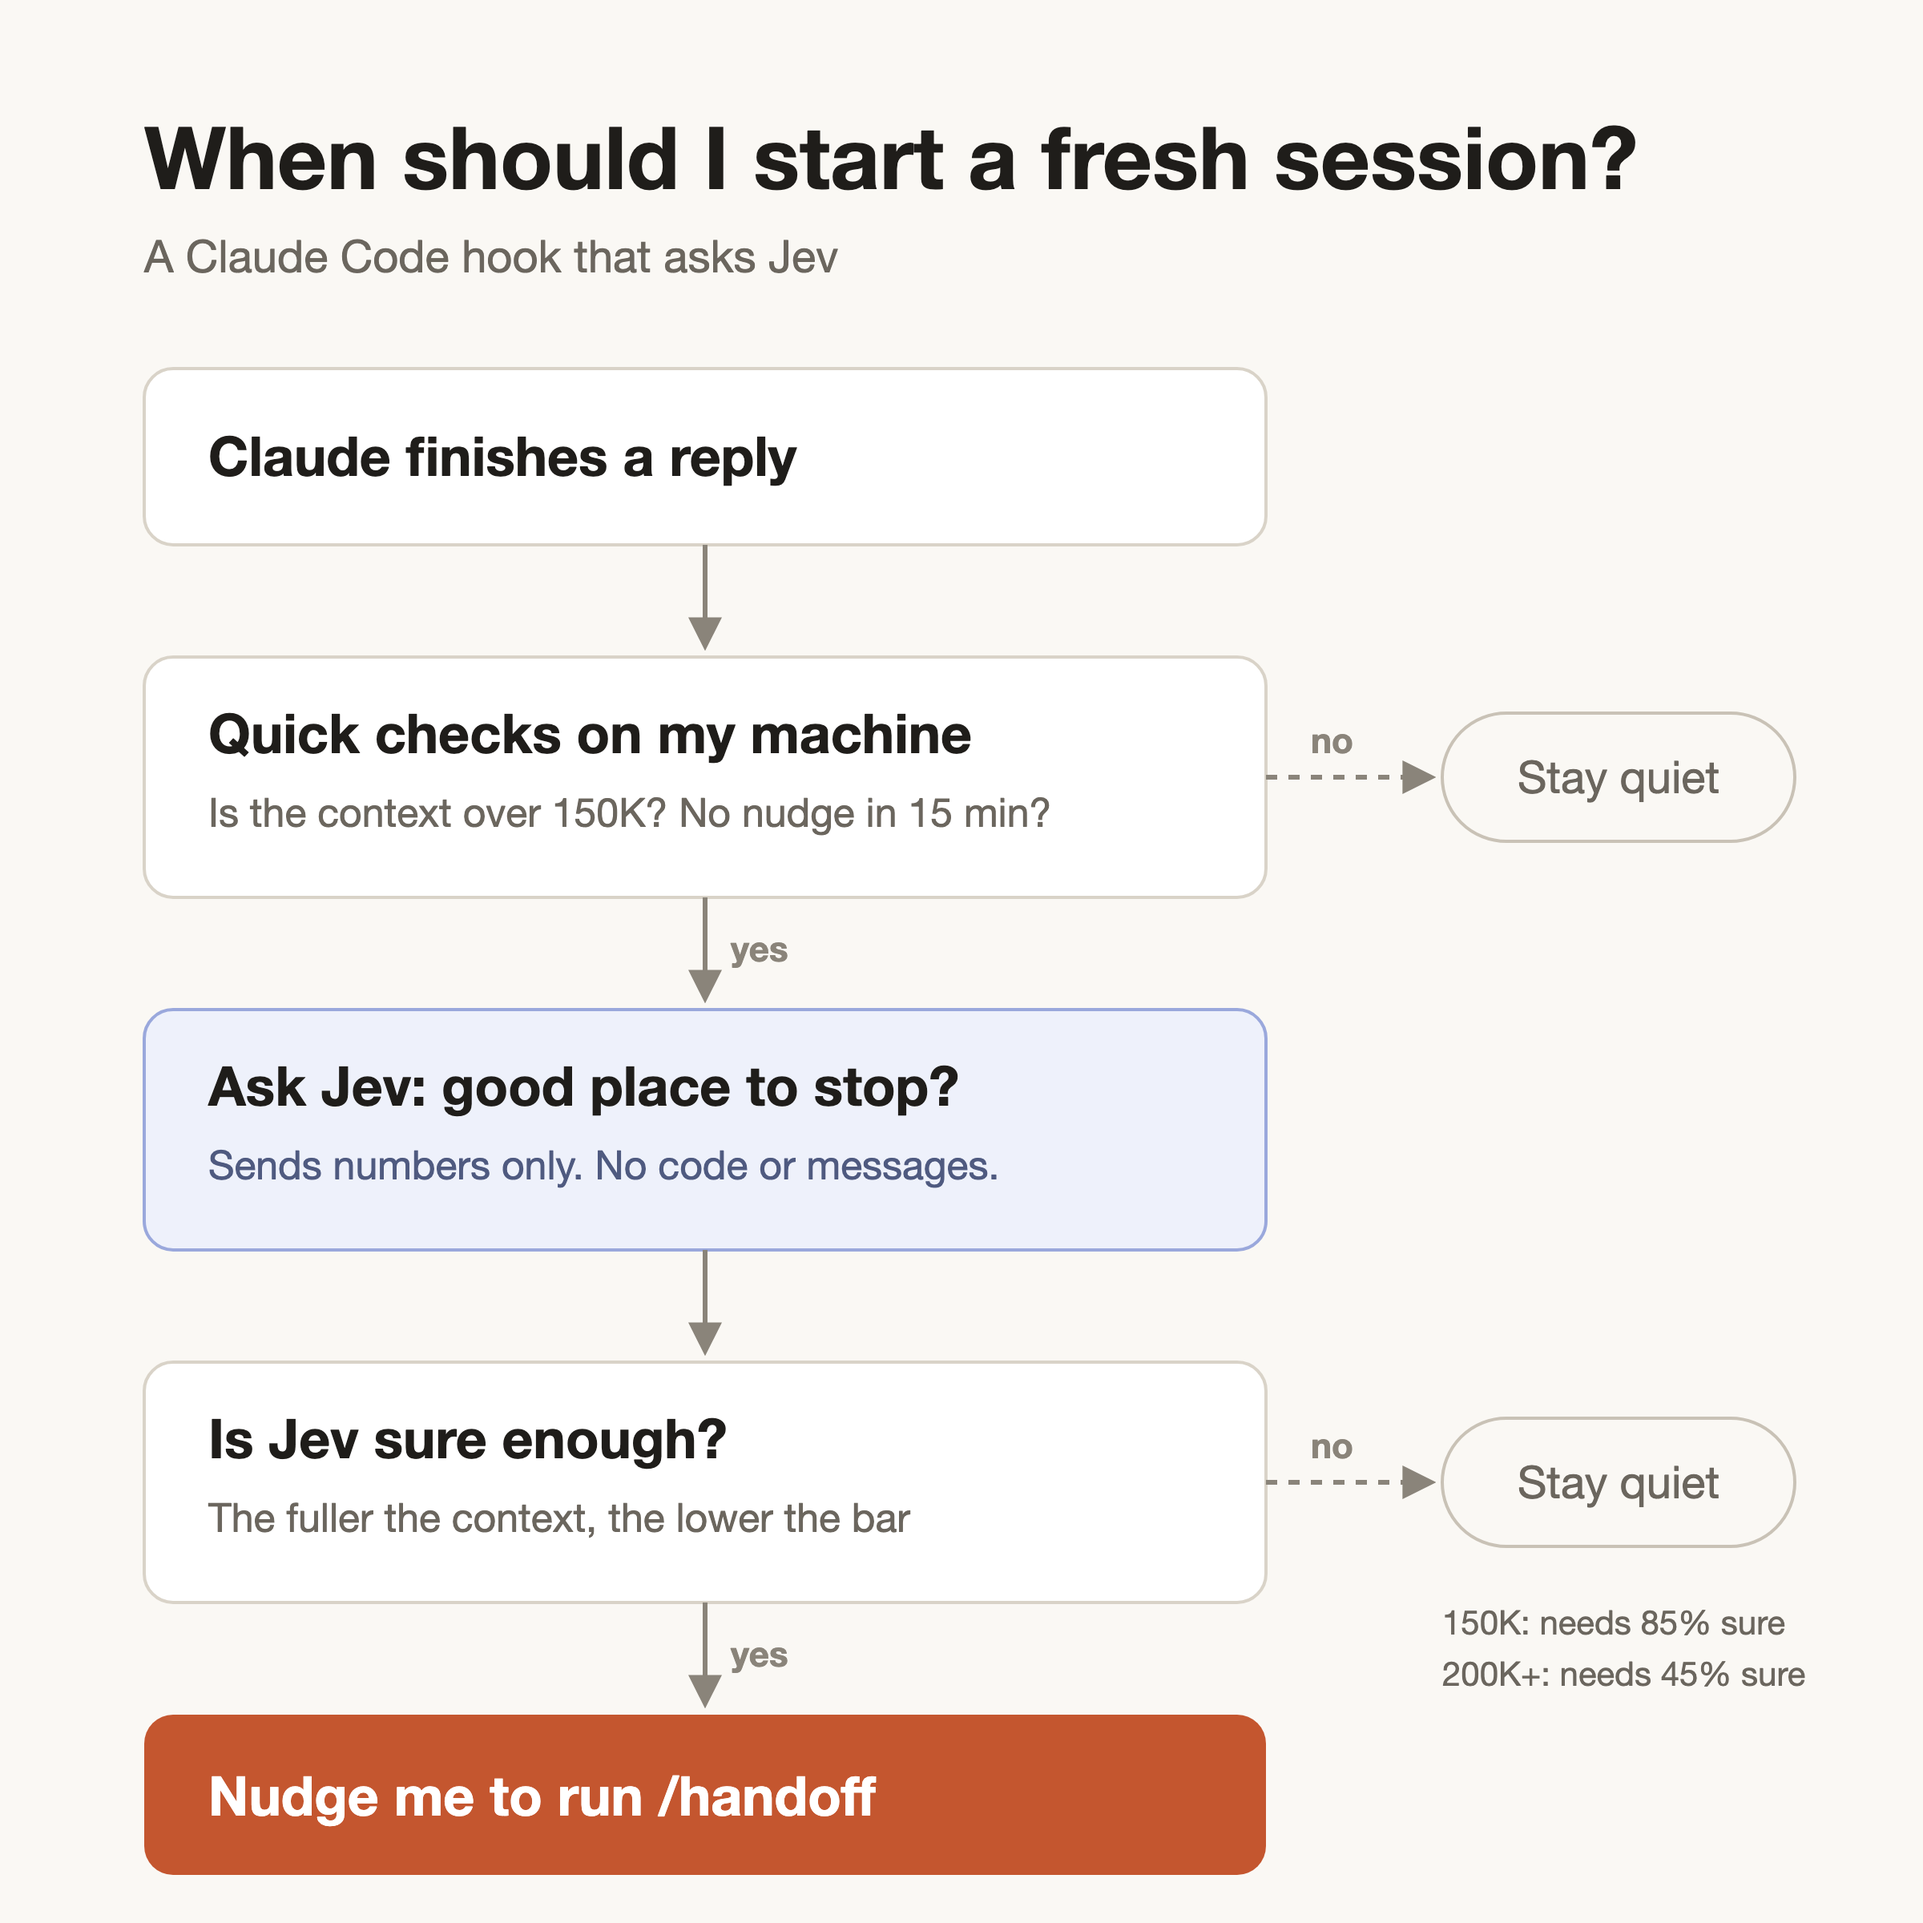
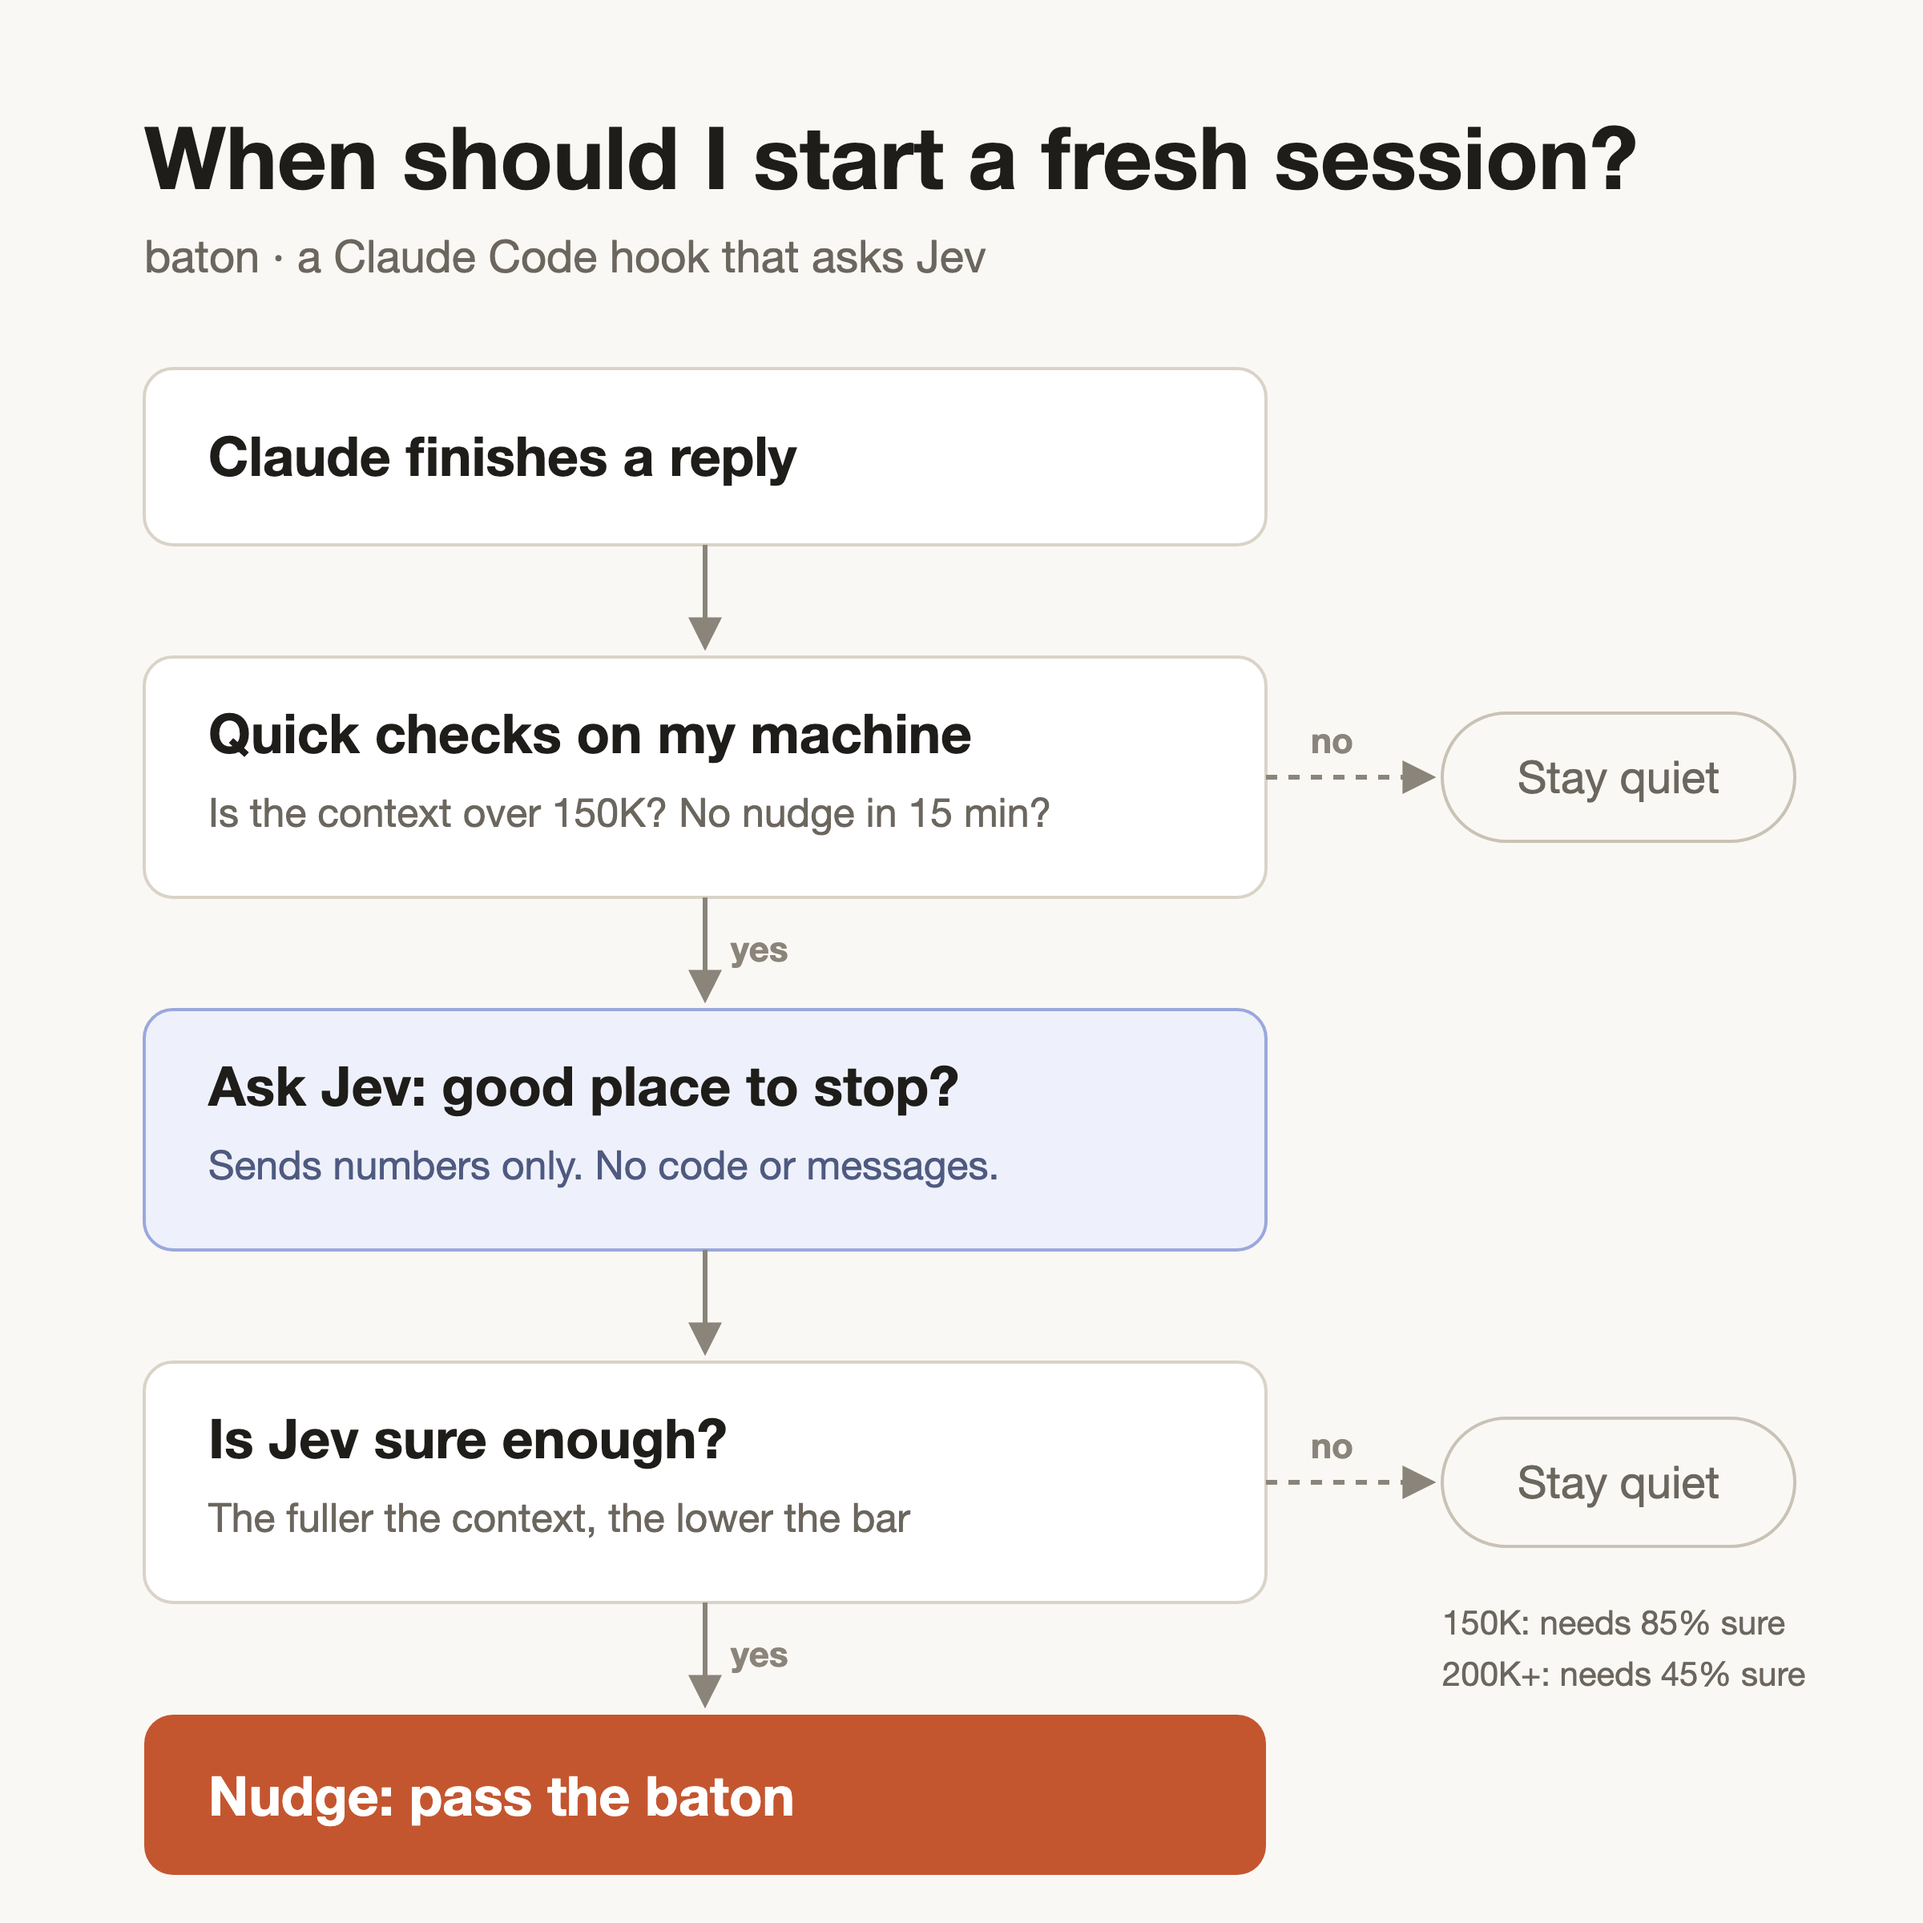
Rebrand as baton and rewrite README

Changed region(s): [[0.0625, 0.125, 0.5, 0.1562], [0.25, 0.9062, 0.4688, 0.9688]]

diff --git a/baton.py b/baton.py
@@ -1,13 +1,13 @@
 #!/usr/bin/env python3
 """
-Claude Code Stop hook: nudge toward a handoff (save state, start a fresh
+baton: a Claude Code Stop hook that nudges toward a handoff (save state, start a fresh
 session) at a good breakpoint, instead of letting context grow past a
 working budget.
 
 Inspired by github.com/kunchenguid/compact-adviser, which uses TypeSafe's Jev
 to time `/compact`. This version times a handoff instead: durable state in a
 file plus a fresh session, not an in-context summary. Two stages:
-  1. Local gates (free): opt-in check, token floor, cooldown.
+  1. Local gates (free): enabled check, token floor, cooldown.
   2. Jev scoring (one Noul call): is this a natural checkpoint?
 
 Privacy: only *derived, structured* signals are sent to Jev -- token counts,
@@ -15,17 +15,17 @@ tool-call tallies, elapsed time, and boolean flags computed *locally* from the
 last assistant message. Raw message text, code, and file content never leave
 the machine.
 
-Opt in with `CC_HANDOFF_NUDGE=1` in ~/.claude/settings.json env.
-Opt a project out with its `.claude/settings.json`:
-    { "env": { "CC_HANDOFF_NUDGE": "0" } }
+On once the hook is installed. Turn it off for a project in its
+`.claude/settings.json`:
+    { "env": { "BATON": "0" } }
 
 Optional env:
-  CC_CTX_BUDGET            working budget in tokens (default 200000)
-  CC_HANDOFF_NUDGE_MIN     don't even evaluate below this many tokens (default 150000)
-  CC_HANDOFF_NUDGE_COOLDOWN  seconds between nudges in one session (default 900)
-  CC_HANDOFF_NUDGE_COMMAND your handoff command, e.g. "/handoff" (default: none,
+  BATON_BUDGET             working budget in tokens (default 200000)
+  BATON_MIN_TOKENS         don't even evaluate below this many tokens (default 150000)
+  BATON_COOLDOWN           seconds between nudges in one session (default 900)
+  BATON_COMMAND            your handoff command, e.g. "/handoff" (default: none,
                            the nudge just says to save progress and start fresh)
-  CC_HANDOFF_NUDGE_DEBUG   "1" prints reasoning to stderr
+  BATON_DEBUG              "1" prints reasoning to stderr
 
 TYPESAFE_API_KEY, or a `TYPESAFE_API_KEY=...` line in ~/.claude/typesafe.env
 (a file outside any git repo -- never put this key in a project's
@@ -59,8 +59,8 @@ COMPLETION_RE = re.compile(
 
 
 def debug(msg):
-    if os.environ.get("CC_HANDOFF_NUDGE_DEBUG") == "1":
-        print(f"[handoff-nudge] {msg}", file=sys.stderr)
+    if os.environ.get("BATON_DEBUG") == "1":
+        print(f"[baton] {msg}", file=sys.stderr)
 
 
 def load_api_key():
@@ -195,8 +195,8 @@ def call_jev(api_key, state):
 
 
 def main():
-    if os.environ.get("CC_HANDOFF_NUDGE") != "1":
-        return  # on globally; a project can set CC_HANDOFF_NUDGE=0 to opt out
+    if os.environ.get("BATON", "1") == "0":
+        return  # on by default; a project can set BATON=0 to opt out
 
     raw = sys.stdin.read()
     hook_in = json.loads(raw)
@@ -219,16 +219,16 @@ def main():
         debug("no usage data yet")
         return
 
-    budget = int(os.environ.get("CC_CTX_BUDGET", "200000"))
-    min_tokens = int(os.environ.get("CC_HANDOFF_NUDGE_MIN", "150000"))
+    budget = int(os.environ.get("BATON_BUDGET", "200000"))
+    min_tokens = int(os.environ.get("BATON_MIN_TOKENS", "150000"))
     if tokens < min_tokens:
         return
     pct = tokens / budget * 100
 
-    state_dir = Path.home() / ".claude" / "state" / "handoff-nudge"
+    state_dir = Path.home() / ".claude" / "state" / "baton"
     state_dir.mkdir(parents=True, exist_ok=True)
     state_file = state_dir / f"{session_id}.json"
-    cooldown = int(os.environ.get("CC_HANDOFF_NUDGE_COOLDOWN", "900"))
+    cooldown = int(os.environ.get("BATON_COOLDOWN", "900"))
     now = time.time()
     if state_file.exists():
         try:
@@ -274,7 +274,7 @@ def main():
         return
 
     state_file.write_text(json.dumps({"last_nudge_ts": now}))
-    command = os.environ.get("CC_HANDOFF_NUDGE_COMMAND", "").strip()
+    command = os.environ.get("BATON_COMMAND", "").strip()
     action = f"run {command}" if command else "save your progress and start a fresh session"
     msg = (
         f"Context nudge: {tokens // 1000}k/{budget // 1000}k ({pct:.0f}%). "

diff --git a/README.md b/README.md
@@ -1,99 +1,91 @@
-# jev-handoff-nudge
+<div align="center">
 
-A Claude Code hook that tells you when it's a good moment to save your progress and start a fresh session. It asks [Jev](https://typesafe.ai) from TypeSafe to make the call.
+# baton
 
-![How it works](diagram.png)
+**Know when to pass a Claude Code session to a fresh one, before context gets expensive.**
 
-## Why
+[![License: MIT](https://img.shields.io/badge/license-MIT-blue.svg)](LICENSE)
+![Python 3.8+](https://img.shields.io/badge/python-3.8%2B-blue.svg)
+![Claude Code hook](https://img.shields.io/badge/Claude%20Code-Stop%20hook-C4562F.svg)
+![Powered by Jev](https://img.shields.io/badge/powered%20by-Jev-6B7BD1.svg)
 
-Long Claude Code sessions get expensive, because everything in context is re-read on every turn. Starting fresh fixes that, but only if you stop at the right moment. Stop in the middle of a task and you lose your place.
+</div>
 
-A flat token limit doesn't know whether you're mid-edit or just wrapped something up. So once a session gets big, this hook asks Jev one question: does this look like a natural stopping point? The fuller the context, the less sure Jev has to be before you get a nudge.
+Long Claude Code sessions get expensive, because everything in context is re-read on every turn. Starting fresh fixes that, but only if you stop at the right moment. Stop mid-task and you lose your place.
+
+baton watches your session. Once it gets big, it asks [Jev](https://typesafe.ai) from TypeSafe whether this looks like a natural stopping point, and nudges you when it does.
 
 ```
-Context nudge: 333k/200k (167%). Jev p=0.63 (need 0.45). This looks like a good point to run /handoff before starting anything new.
+Context nudge: 260k/200k (130%). Jev p=0.81 (need 0.45). This looks like a good point to save your progress and start a fresh session before starting anything new.
 ```
 
-## What gets sent to Jev
+<p align="center"><img src="diagram.png" alt="How baton decides when to nudge" width="560"></p>
 
-Only numbers and yes/no flags, all worked out on your machine:
+## Quick start
 
-- how full the context is, against your budget
-- number of turns and minutes in the session
-- counts of recent tool calls (for example `Edit: 4, Read: 2`)
-- whether the last reply sounds finished or talks about next steps, and its length
+You need Python 3.8+ and a [TypeSafe](https://typesafe.ai) API key. No other dependencies.
 
-No message text, code, or file content leaves your machine.
+```sh
+# 1. Install the hook
+mkdir -p ~/.claude/hooks
+curl -fsSL https://raw.githubusercontent.com/VaidikV/baton/main/baton.py -o ~/.claude/hooks/baton.py
+chmod +x ~/.claude/hooks/baton.py
 
-## Setup
+# 2. Save your key outside any repo
+echo 'TYPESAFE_API_KEY=your-key-here' > ~/.claude/typesafe.env
+chmod 600 ~/.claude/typesafe.env
+```
 
-You need Python 3 (standard library only) and a TypeSafe API key.
+```jsonc
+// 3. Register it in ~/.claude/settings.json
+{
+  "hooks": {
+    "Stop": [
+      { "hooks": [{ "type": "command", "command": "~/.claude/hooks/baton.py" }] }
+    ]
+  }
+}
+```
 
-1. Save your key outside any repo:
+That's it. Once a session is big and at a good breakpoint, you'll see a nudge after the reply.
 
-   ```sh
-   echo 'TYPESAFE_API_KEY=your-key-here' > ~/.claude/typesafe.env
-   chmod 600 ~/.claude/typesafe.env
-   ```
+## How it works
 
-2. Copy the hook:
+1. **Free local checks.** Is the session past 150K tokens, and has it been 15 minutes since the last nudge? If not, baton exits.
+2. **One question to Jev.** Is this a natural checkpoint, or is work still in progress?
+3. **A sliding bar.** At 150K, Jev must be 85% sure. At 200K and beyond, 45% is enough. The fuller the context, the easier it is to nudge.
 
-   ```sh
-   mkdir -p ~/.claude/hooks
-   cp handoff-nudge.py ~/.claude/hooks/
-   chmod +x ~/.claude/hooks/handoff-nudge.py
-   ```
+### Privacy
 
-3. Turn it on in `~/.claude/settings.json`:
+Only numbers and yes/no flags are sent: context size, turn count, elapsed time, recent tool-call counts, and whether the last reply sounds finished. **No message text, code, or file content leaves your machine.**
 
-   ```json
-   {
-     "env": {
-       "CC_HANDOFF_NUDGE": "1"
-     },
-     "hooks": {
-       "Stop": [
-         {
-           "hooks": [
-             { "type": "command", "command": "~/.claude/hooks/handoff-nudge.py" }
-           ]
-         }
-       ]
-     }
-   }
-   ```
+## Configuration
 
-To turn it off for one project, set `"CC_HANDOFF_NUDGE": "0"` in that project's `.claude/settings.json`.
+Set any of these in the `env` block of your settings file:
 
-## Settings
-
-All optional, set in the `env` block:
-
-| Variable | Default | What it does |
+| Variable | Default | Description |
 | --- | --- | --- |
-| `CC_CTX_BUDGET` | `200000` | Your working context budget in tokens |
-| `CC_HANDOFF_NUDGE_MIN` | `150000` | Don't check at all below this many tokens |
-| `CC_HANDOFF_NUDGE_COOLDOWN` | `900` | Seconds between nudges in one session |
-| `CC_HANDOFF_NUDGE_COMMAND` | none | Your handoff command, for example `/handoff`, shown in the nudge |
-| `CC_HANDOFF_NUDGE_DEBUG` | off | Set to `1` to print the reasoning to stderr |
+| `BATON` | `1` | Set to `0` to turn baton off (for example, in one project's `.claude/settings.json`) |
+| `BATON_BUDGET` | `200000` | Your working context budget in tokens |
+| `BATON_MIN_TOKENS` | `150000` | Skip all checks below this size |
+| `BATON_COOLDOWN` | `900` | Seconds between nudges in one session |
+| `BATON_COMMAND` | none | Your handoff command (for example `/handoff`), named in the nudge |
+| `BATON_DEBUG` | `0` | Set to `1` to print the reasoning to stderr |
 
-How sure Jev needs to be slides with context size: 85% at 75% of budget, down to 45% at 100% and above.
+## What's a handoff?
 
-## What a handoff is
+baton decides *when*. What you do next is up to you. A good handoff writes the current state, decisions, and next steps to a file, then starts a new session that reads it. `/compact` or a quick handwritten note also works.
 
-This hook only decides *when*. What you do next is up to you. I use a `/handoff` command that writes the current state, decisions, and next steps to a file, then I start a new session that reads that file. You could also just run `/compact`, or write a quick note by hand.
+## Troubleshooting
 
-## Good to know
+- **Nudges say "heuristic only" even with a key set.** Python may be missing SSL certificates. Run `pip3 install certifi`, and use `BATON_DEBUG=1` to confirm.
+- **No nudge ever shows up.** The session may still be under `BATON_MIN_TOKENS`. Without a key, baton only warns once you're over budget.
+- baton fails quietly by design. Any error exits without output, so it never breaks your session.
 
-- Jev is only called once the session passes `CC_HANDOFF_NUDGE_MIN`. After a nudge, it waits out the cooldown before asking again.
-- Without a key, it falls back to a plain "over budget" warning.
-- If nudges only ever say "heuristic only" even with a key set, Python may be missing SSL certificates. Run with `CC_HANDOFF_NUDGE_DEBUG=1` to check, and `pip3 install certifi` usually fixes it.
-- It fails quietly. Any error exits without output, so it never breaks your session.
+## Credits
 
-## Credit
-
-The idea comes from [compact-adviser](https://github.com/kunchenguid/compact-adviser) by kunchenguid, which uses Jev to time `/compact`. This is a Python take on the same approach, aimed at handoffs.
+Inspired by [compact-adviser](https://github.com/kunchenguid/compact-adviser) by kunchenguid, which uses Jev to time `/compact`.
 
 ## License
 
-MIT
+[MIT](LICENSE)
